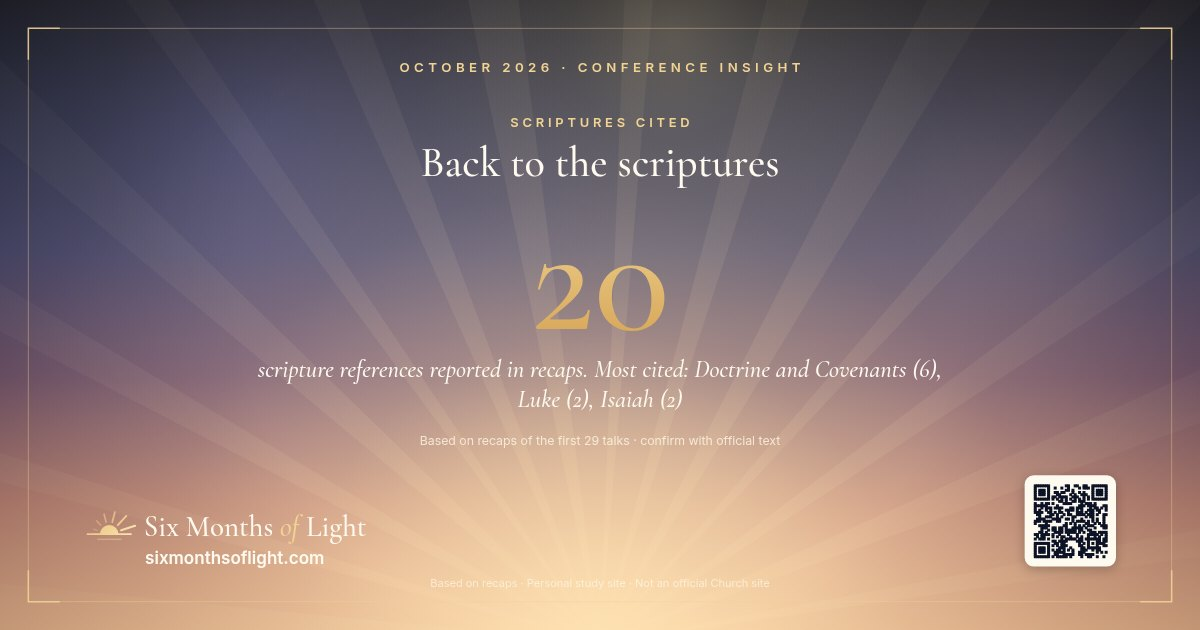
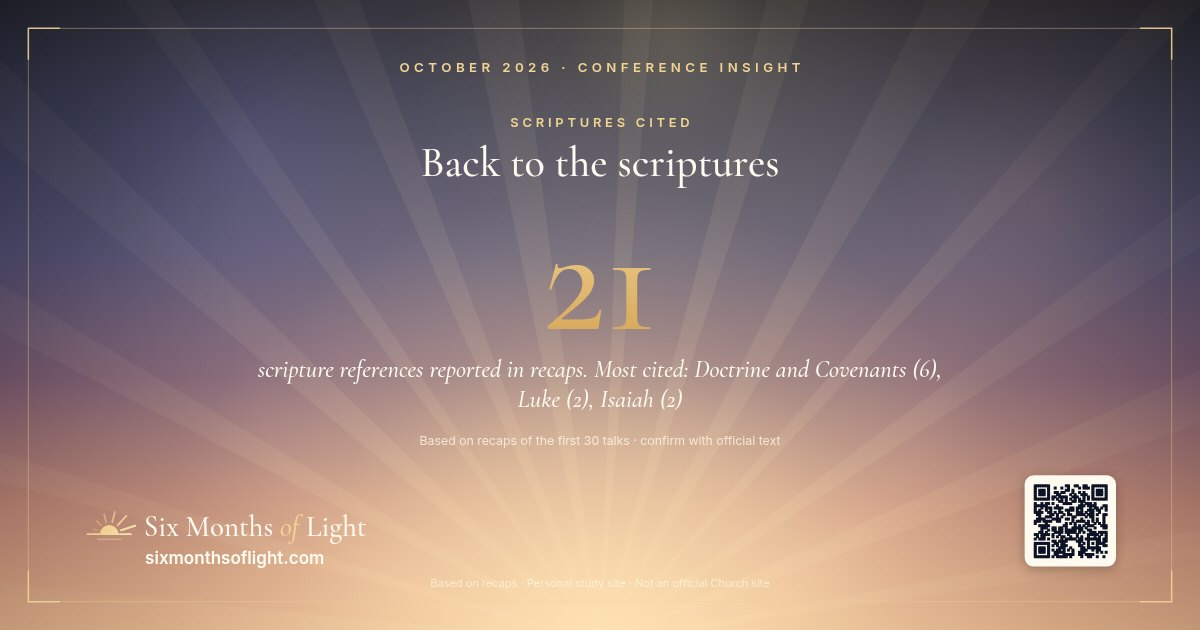
Add Sunday afternoon: Elder Moisés Villanueva "Prove Me Now Herewith"
From Church News recap; session remains pending for more talks.

Changed region(s): [[0.4317, 0.4222, 0.555, 0.5429]]

diff --git a/assets/data.js b/assets/data.js
@@ -49,7 +49,7 @@ window.CONF = {
    "when": "Sun, Oct 4 · 2:00–4:00pm MDT",
    "url": "https://www.churchofjesuschrist.org/study/general-conference/2026/10/sunday-afternoon-session?lang=eng",
    "status": "pending",
-   "note": "In progress. Conducted by Elder Gérald Caussé. Music by The Tabernacle Choir at Temple Square (opening hymn: Let Zion in Her Beauty Rise). First talks added from Church News recaps; more as they post."
+   "note": "In progress. Conducted by Elder Gérald Caussé. Music by The Tabernacle Choir at Temple Square (opening hymn: Let Zion in Her Beauty Rise). Talks added from Church News recaps as they post."
   }
  ],
  "talks": [
@@ -752,6 +752,30 @@ window.CONF = {
    "invitation": "Choose one of her seven helps to focus on; study the 13th article of faith and create your own list of aspirations; put the Lord first.",
    "ponder": "Which one of her seven invitations will I focus on for the next few weeks?",
    "big_idea": "Heavenly Father knows you and is at your side — put Him first, and He will guide your righteous desires.",
+   "video_embed": null,
+   "full_text_permitted": false
+  },
+  {
+   "id": "sun-pm-3-villanueva",
+   "session": "sun-pm",
+   "order": 3,
+   "speaker": "Elder Moisés Villanueva",
+   "calling": "General Authority Seventy",
+   "title": "Prove Me Now Herewith",
+   "recap_url": "https://www.thechurchnews.com/general-conference/2026/10/04/elder-moises-villanueva-october-2026-general-conference-prove-me-now-herewith/",
+   "official_url": null,
+   "summary": "Speaking about the blessings the Lord promises to those who faithfully pay tithing. When his family was baptized into the Church, perhaps the change that required the greatest faith and sacrifice was paying a full tithe, and he is grateful his mother trusted the Lord's promises and lived the law of tithing despite difficult circumstances. Blessings he has received through faithful tithing include steady employment, good health, his home and temporal possessions being preserved, the ability to manage time and resources to get an education, the gift of gratitude, and learning to recognize the influence of the Holy Ghost in important decisions. These temporal and spiritual blessings are evidence that the Lord opens the windows of heaven (Malachi 3:10). God gives commandments because He wants us to receive His blessings; He knows each of us and our needs even before we ask.",
+   "scriptures": [
+    "Malachi 3:10"
+   ],
+   "quotes": [
+    "By living the law of tithing, the Lord indeed opens the windows of heaven and pours out a blessing ‘that there shall not be room enough to receive it’ (Malachi 3:10).",
+    "These blessings, both temporal and spiritual — and many others — are evidence that the Lord has indeed opened the windows of heaven and poured out His promised blessings in abundance.",
+    "I bear my testimony that God is our loving Heavenly Father. He knows each of us and is aware of our needs even before we ask."
+   ],
+   "invitation": "Trust the Lord's promises and live the law of tithing faithfully, then watch for the temporal and spiritual blessings He pours out.",
+   "ponder": "What blessings — temporal or spiritual — have come into my life through paying tithing, and have I recognized them?",
+   "big_idea": "Live the law of tithing and the Lord opens the windows of heaven — blessings both temporal and spiritual.",
    "video_embed": null,
    "full_text_permitted": false
   }

diff --git a/q/sun-pm-3-villanueva-1.html b/q/sun-pm-3-villanueva-1.html
@@ -1,0 +1,14 @@
+<!doctype html>
+<html lang="en"><head><meta charset="utf-8"><meta name="viewport" content="width=device-width,initial-scale=1">
+<title>“By living the law of tithing, the Lord indeed opens the windows of heaven and pours out a blessing ‘that…” — Elder Moisés Villanueva · Six Months of Light</title>
+<meta name="description" content="From “Prove Me Now Herewith” (October 2026 General Conference, as quoted in recaps). Read the recap and make your own quote card.">
+<meta property="og:type" content="article"><meta property="og:site_name" content="Six Months of Light">
+<meta property="og:title" content="“By living the law of tithing, the Lord indeed opens the windows of heaven and pours out a blessing ‘that…” — Elder Moisés Villanueva"><meta property="og:description" content="From “Prove Me Now Herewith” (October 2026 General Conference, as quoted in recaps). Read the recap and make your own quote card.">
+<meta property="og:url" content="https://sixmonthsoflight.com/q/sun-pm-3-villanueva-1.html"><meta property="og:image" content="https://sixmonthsoflight.com/assets/og/q/sun-pm-3-villanueva-1.jpg">
+<meta property="og:image:width" content="1200"><meta property="og:image:height" content="630"><meta property="og:image:alt" content="Quote card: By living the law of tithing, the Lord indeed opens the windows of heaven and pours out a blessing ‘that… — Elder Moisés Villanueva">
+<meta name="twitter:card" content="summary_large_image"><meta name="twitter:title" content="“By living the law of tithing, the Lord indeed opens the windows of heaven and pours out a blessing ‘that…” — Elder Moisés Villanueva"><meta name="twitter:description" content="From “Prove Me Now Herewith” (October 2026 General Conference, as quoted in recaps). Read the recap and make your own quote card."><meta name="twitter:image" content="https://sixmonthsoflight.com/assets/og/q/sun-pm-3-villanueva-1.jpg">
+<meta name="robots" content="noindex,follow"><link rel="icon" href="../assets/logo-mark.svg" type="image/svg+xml">
+<meta http-equiv="refresh" content="0; url=../talks/sun-pm-3-villanueva.html#q1">
+<style>body{font:16px/1.5 system-ui,sans-serif;background:#0d1326;color:#fffaf0;display:grid;place-items:center;min-height:100vh;margin:0;padding:24px;text-align:center}a{color:#f1d394}</style>
+</head><body><main><p>Opening the quote from Elder Moisés Villanueva…</p><p><a href="../talks/sun-pm-3-villanueva.html#q1">Continue to Six Months of Light →</a></p><p style="font-size:13px;opacity:.75">Not an official Church site · Personal study page</p></main>
+<script>location.replace("../talks/sun-pm-3-villanueva.html#q1");</script></body></html>

diff --git a/q/sun-pm-3-villanueva-2.html b/q/sun-pm-3-villanueva-2.html
@@ -1,0 +1,14 @@
+<!doctype html>
+<html lang="en"><head><meta charset="utf-8"><meta name="viewport" content="width=device-width,initial-scale=1">
+<title>“These blessings, both temporal and spiritual — and many others — are evidence that the Lord has indeed…” — Elder Moisés Villanueva · Six Months of Light</title>
+<meta name="description" content="From “Prove Me Now Herewith” (October 2026 General Conference, as quoted in recaps). Read the recap and make your own quote card.">
+<meta property="og:type" content="article"><meta property="og:site_name" content="Six Months of Light">
+<meta property="og:title" content="“These blessings, both temporal and spiritual — and many others — are evidence that the Lord has indeed…” — Elder Moisés Villanueva"><meta property="og:description" content="From “Prove Me Now Herewith” (October 2026 General Conference, as quoted in recaps). Read the recap and make your own quote card.">
+<meta property="og:url" content="https://sixmonthsoflight.com/q/sun-pm-3-villanueva-2.html"><meta property="og:image" content="https://sixmonthsoflight.com/assets/og/q/sun-pm-3-villanueva-2.jpg">
+<meta property="og:image:width" content="1200"><meta property="og:image:height" content="630"><meta property="og:image:alt" content="Quote card: These blessings, both temporal and spiritual — and many others — are evidence that the Lord has indeed… — Elder Moisés Villanueva">
+<meta name="twitter:card" content="summary_large_image"><meta name="twitter:title" content="“These blessings, both temporal and spiritual — and many others — are evidence that the Lord has indeed…” — Elder Moisés Villanueva"><meta name="twitter:description" content="From “Prove Me Now Herewith” (October 2026 General Conference, as quoted in recaps). Read the recap and make your own quote card."><meta name="twitter:image" content="https://sixmonthsoflight.com/assets/og/q/sun-pm-3-villanueva-2.jpg">
+<meta name="robots" content="noindex,follow"><link rel="icon" href="../assets/logo-mark.svg" type="image/svg+xml">
+<meta http-equiv="refresh" content="0; url=../talks/sun-pm-3-villanueva.html#q2">
+<style>body{font:16px/1.5 system-ui,sans-serif;background:#0d1326;color:#fffaf0;display:grid;place-items:center;min-height:100vh;margin:0;padding:24px;text-align:center}a{color:#f1d394}</style>
+</head><body><main><p>Opening the quote from Elder Moisés Villanueva…</p><p><a href="../talks/sun-pm-3-villanueva.html#q2">Continue to Six Months of Light →</a></p><p style="font-size:13px;opacity:.75">Not an official Church site · Personal study page</p></main>
+<script>location.replace("../talks/sun-pm-3-villanueva.html#q2");</script></body></html>

diff --git a/q/sun-pm-3-villanueva-3.html b/q/sun-pm-3-villanueva-3.html
@@ -1,0 +1,14 @@
+<!doctype html>
+<html lang="en"><head><meta charset="utf-8"><meta name="viewport" content="width=device-width,initial-scale=1">
+<title>“I bear my testimony that God is our loving Heavenly Father. He knows each of us and is aware of our…” — Elder Moisés Villanueva · Six Months of Light</title>
+<meta name="description" content="From “Prove Me Now Herewith” (October 2026 General Conference, as quoted in recaps). Read the recap and make your own quote card.">
+<meta property="og:type" content="article"><meta property="og:site_name" content="Six Months of Light">
+<meta property="og:title" content="“I bear my testimony that God is our loving Heavenly Father. He knows each of us and is aware of our…” — Elder Moisés Villanueva"><meta property="og:description" content="From “Prove Me Now Herewith” (October 2026 General Conference, as quoted in recaps). Read the recap and make your own quote card.">
+<meta property="og:url" content="https://sixmonthsoflight.com/q/sun-pm-3-villanueva-3.html"><meta property="og:image" content="https://sixmonthsoflight.com/assets/og/q/sun-pm-3-villanueva-3.jpg">
+<meta property="og:image:width" content="1200"><meta property="og:image:height" content="630"><meta property="og:image:alt" content="Quote card: I bear my testimony that God is our loving Heavenly Father. He knows each of us and is aware of our… — Elder Moisés Villanueva">
+<meta name="twitter:card" content="summary_large_image"><meta name="twitter:title" content="“I bear my testimony that God is our loving Heavenly Father. He knows each of us and is aware of our…” — Elder Moisés Villanueva"><meta name="twitter:description" content="From “Prove Me Now Herewith” (October 2026 General Conference, as quoted in recaps). Read the recap and make your own quote card."><meta name="twitter:image" content="https://sixmonthsoflight.com/assets/og/q/sun-pm-3-villanueva-3.jpg">
+<meta name="robots" content="noindex,follow"><link rel="icon" href="../assets/logo-mark.svg" type="image/svg+xml">
+<meta http-equiv="refresh" content="0; url=../talks/sun-pm-3-villanueva.html#q3">
+<style>body{font:16px/1.5 system-ui,sans-serif;background:#0d1326;color:#fffaf0;display:grid;place-items:center;min-height:100vh;margin:0;padding:24px;text-align:center}a{color:#f1d394}</style>
+</head><body><main><p>Opening the quote from Elder Moisés Villanueva…</p><p><a href="../talks/sun-pm-3-villanueva.html#q3">Continue to Six Months of Light →</a></p><p style="font-size:13px;opacity:.75">Not an official Church site · Personal study page</p></main>
+<script>location.replace("../talks/sun-pm-3-villanueva.html#q3");</script></body></html>

diff --git a/i/christ.html b/i/christ.html
@@ -1,12 +1,12 @@
 <!doctype html>
 <html lang="en"><head><meta charset="utf-8"><meta name="viewport" content="width=device-width,initial-scale=1">
 <title>He was named again and again · October 2026 General Conference · Six Months of Light</title>
-<meta name="description" content="Jesus Christ was named 141 times in recaps of 24 of 29 talks. Based on recaps.">
+<meta name="description" content="Jesus Christ was named 141 times in recaps of 24 of 30 talks. Based on recaps.">
 <meta property="og:type" content="article"><meta property="og:site_name" content="Six Months of Light">
-<meta property="og:title" content="He was named again and again · October 2026 General Conference"><meta property="og:description" content="Jesus Christ was named 141 times in recaps of 24 of 29 talks. Based on recaps.">
+<meta property="og:title" content="He was named again and again · October 2026 General Conference"><meta property="og:description" content="Jesus Christ was named 141 times in recaps of 24 of 30 talks. Based on recaps.">
 <meta property="og:url" content="https://sixmonthsoflight.com/i/christ.html"><meta property="og:image" content="https://sixmonthsoflight.com/assets/og/i/christ.jpg">
 <meta property="og:image:width" content="1200"><meta property="og:image:height" content="630"><meta property="og:image:alt" content="He was named again and again">
-<meta name="twitter:card" content="summary_large_image"><meta name="twitter:title" content="He was named again and again · October 2026 General Conference"><meta name="twitter:description" content="Jesus Christ was named 141 times in recaps of 24 of 29 talks. Based on recaps."><meta name="twitter:image" content="https://sixmonthsoflight.com/assets/og/i/christ.jpg">
+<meta name="twitter:card" content="summary_large_image"><meta name="twitter:title" content="He was named again and again · October 2026 General Conference"><meta name="twitter:description" content="Jesus Christ was named 141 times in recaps of 24 of 30 talks. Based on recaps."><meta name="twitter:image" content="https://sixmonthsoflight.com/assets/og/i/christ.jpg">
 <meta name="robots" content="noindex,follow"><link rel="icon" href="../assets/logo-mark.svg" type="image/svg+xml">
 <meta http-equiv="refresh" content="0; url=../insights.html#christ">
 <style>body{font:16px/1.5 system-ui,sans-serif;background:#0d1326;color:#fffaf0;display:grid;place-items:center;min-height:100vh;margin:0;padding:24px;text-align:center}a{color:#f1d394}</style>

diff --git a/i/scriptures.html b/i/scriptures.html
@@ -1,12 +1,12 @@
 <!doctype html>
 <html lang="en"><head><meta charset="utf-8"><meta name="viewport" content="width=device-width,initial-scale=1">
 <title>Back to the scriptures · October 2026 General Conference · Six Months of Light</title>
-<meta name="description" content="20 scripture references in recaps of the first 29 talks. Based on recaps.">
+<meta name="description" content="21 scripture references in recaps of the first 30 talks. Based on recaps.">
 <meta property="og:type" content="article"><meta property="og:site_name" content="Six Months of Light">
-<meta property="og:title" content="Back to the scriptures · October 2026 General Conference"><meta property="og:description" content="20 scripture references in recaps of the first 29 talks. Based on recaps.">
+<meta property="og:title" content="Back to the scriptures · October 2026 General Conference"><meta property="og:description" content="21 scripture references in recaps of the first 30 talks. Based on recaps.">
 <meta property="og:url" content="https://sixmonthsoflight.com/i/scriptures.html"><meta property="og:image" content="https://sixmonthsoflight.com/assets/og/i/scriptures.jpg">
 <meta property="og:image:width" content="1200"><meta property="og:image:height" content="630"><meta property="og:image:alt" content="Back to the scriptures">
-<meta name="twitter:card" content="summary_large_image"><meta name="twitter:title" content="Back to the scriptures · October 2026 General Conference"><meta name="twitter:description" content="20 scripture references in recaps of the first 29 talks. Based on recaps."><meta name="twitter:image" content="https://sixmonthsoflight.com/assets/og/i/scriptures.jpg">
+<meta name="twitter:card" content="summary_large_image"><meta name="twitter:title" content="Back to the scriptures · October 2026 General Conference"><meta name="twitter:description" content="21 scripture references in recaps of the first 30 talks. Based on recaps."><meta name="twitter:image" content="https://sixmonthsoflight.com/assets/og/i/scriptures.jpg">
 <meta name="robots" content="noindex,follow"><link rel="icon" href="../assets/logo-mark.svg" type="image/svg+xml">
 <meta http-equiv="refresh" content="0; url=../insights.html#scriptures">
 <style>body{font:16px/1.5 system-ui,sans-serif;background:#0d1326;color:#fffaf0;display:grid;place-items:center;min-height:100vh;margin:0;padding:24px;text-align:center}a{color:#f1d394}</style>

diff --git a/i/who-spoke.html b/i/who-spoke.html
@@ -1,12 +1,12 @@
 <!doctype html>
 <html lang="en"><head><meta charset="utf-8"><meta name="viewport" content="width=device-width,initial-scale=1">
-<title>29 talks so far · October 2026 General Conference · Six Months of Light</title>
+<title>30 talks so far · October 2026 General Conference · Six Months of Light</title>
 <meta name="description" content="Who spoke at General Conference so far. Based on recaps.">
 <meta property="og:type" content="article"><meta property="og:site_name" content="Six Months of Light">
-<meta property="og:title" content="29 talks so far · October 2026 General Conference"><meta property="og:description" content="Who spoke at General Conference so far. Based on recaps.">
+<meta property="og:title" content="30 talks so far · October 2026 General Conference"><meta property="og:description" content="Who spoke at General Conference so far. Based on recaps.">
 <meta property="og:url" content="https://sixmonthsoflight.com/i/who-spoke.html"><meta property="og:image" content="https://sixmonthsoflight.com/assets/og/i/who-spoke.jpg">
-<meta property="og:image:width" content="1200"><meta property="og:image:height" content="630"><meta property="og:image:alt" content="29 talks so far">
-<meta name="twitter:card" content="summary_large_image"><meta name="twitter:title" content="29 talks so far · October 2026 General Conference"><meta name="twitter:description" content="Who spoke at General Conference so far. Based on recaps."><meta name="twitter:image" content="https://sixmonthsoflight.com/assets/og/i/who-spoke.jpg">
+<meta property="og:image:width" content="1200"><meta property="og:image:height" content="630"><meta property="og:image:alt" content="30 talks so far">
+<meta name="twitter:card" content="summary_large_image"><meta name="twitter:title" content="30 talks so far · October 2026 General Conference"><meta name="twitter:description" content="Who spoke at General Conference so far. Based on recaps."><meta name="twitter:image" content="https://sixmonthsoflight.com/assets/og/i/who-spoke.jpg">
 <meta name="robots" content="noindex,follow"><link rel="icon" href="../assets/logo-mark.svg" type="image/svg+xml">
 <meta http-equiv="refresh" content="0; url=../insights.html#who-spoke">
 <style>body{font:16px/1.5 system-ui,sans-serif;background:#0d1326;color:#fffaf0;display:grid;place-items:center;min-height:100vh;margin:0;padding:24px;text-align:center}a{color:#f1d394}</style>

diff --git a/talks/sun-pm-3-villanueva.html b/talks/sun-pm-3-villanueva.html
@@ -1,0 +1,34 @@
+<!doctype html>
+<html lang="en">
+<head>
+<meta charset="utf-8">
+<base href="../">
+<meta name="viewport" content="width=device-width,initial-scale=1">
+<title>Prove Me Now Herewith — Elder Moisés Villanueva · Six Months of Light</title>
+<meta name="description" content="Live the law of tithing and the Lord opens the windows of heaven — blessings both temporal and spiritual. Six Months of Light: summary, scriptures, quote cards &amp; ponder questions. Not an official Church site.">
+<link rel="canonical" href="https://sixmonthsoflight.com/talks/sun-pm-3-villanueva.html">
+<meta property="og:type" content="article">
+<meta property="og:site_name" content="Six Months of Light">
+<meta property="og:title" content="Prove Me Now Herewith — Elder Moisés Villanueva">
+<meta property="og:description" content="Live the law of tithing and the Lord opens the windows of heaven — blessings both temporal and spiritual. Six Months of Light: summary, scriptures, quote cards &amp; ponder questions. Not an official Church site.">
+<meta property="og:url" content="https://sixmonthsoflight.com/talks/sun-pm-3-villanueva.html">
+<meta property="og:image" content="https://sixmonthsoflight.com/assets/og/sun-pm-3-villanueva.jpg">
+<meta property="og:image:width" content="1200"><meta property="og:image:height" content="630">
+<meta property="og:image:alt" content="Prove Me Now Herewith by Elder Moisés Villanueva">
+<meta name="twitter:card" content="summary_large_image">
+<meta name="theme-color" content="#0d1326">
+<link rel="icon" href="assets/logo-mark.svg" type="image/svg+xml">
+<link rel="preload" href="assets/fonts/CormorantGaramond.woff2" as="font" type="font/woff2" crossorigin>
+<link rel="stylesheet" href="assets/styles.css">
+</head>
+<body>
+<main class="wrap" id="main"></main>
+<script>window.TALK_ID = "sun-pm-3-villanueva";</script>
+<script src="assets/config.js"></script>
+<script src="assets/api.js"></script>
+<script src="assets/data.js"></script>
+<script src="assets/common.js"></script>
+<script src="assets/pages/share.js"></script>
+<script src="assets/pages/talk.js"></script>
+</body>
+</html>

diff --git a/tools/talks_source.py b/tools/talks_source.py
@@ -19,7 +19,7 @@ sessions = [
   {"id": "sun-am", "color": "sky", "name": "Sunday Morning Session", "when": "Sun, Oct 4 · 10:00am–noon MDT", "url": SUN_AM, "status": "complete",
    "note": "Conducted by President D. Todd Christofferson. Music by The Tabernacle Choir at Temple Square (opening hymn: How Firm a Foundation; includes Music & the Spoken Word). Closed by President Dallin H. Oaks."},
   {"id": "sun-pm", "color": "violet", "name": "Sunday Afternoon Session", "when": "Sun, Oct 4 · 2:00–4:00pm MDT", "url": SUN_PM, "status": "pending",
-   "note": "In progress. Conducted by Elder Gérald Caussé. Music by The Tabernacle Choir at Temple Square (opening hymn: Let Zion in Her Beauty Rise). First talks added from Church News recaps; more as they post."},
+   "note": "In progress. Conducted by Elder Gérald Caussé. Music by The Tabernacle Choir at Temple Square (opening hymn: Let Zion in Her Beauty Rise). Talks added from Church News recaps as they post."},
 ]
 
 def t(id, session, order, speaker, calling, title, recap, summary, scriptures, quotes, invitation, ponder, official_url=None):
@@ -290,6 +290,15 @@ talks = [
     "Always put Him first and remain faithful to the covenants you made at your baptism. Angels can minister to you. The Father, Jesus Christ and the Holy Ghost are at your side."],
    "Choose one of her seven helps to focus on; study the 13th article of faith and create your own list of aspirations; put the Lord first.",
    "Which one of her seven invitations will I focus on for the next few weeks?"),
+ t("sun-pm-3-villanueva", "sun-pm", 3, "Elder Moisés Villanueva", "General Authority Seventy", "Prove Me Now Herewith",
+   "https://www.thechurchnews.com/general-conference/2026/10/04/elder-moises-villanueva-october-2026-general-conference-prove-me-now-herewith/",
+   "Speaking about the blessings the Lord promises to those who faithfully pay tithing. When his family was baptized into the Church, perhaps the change that required the greatest faith and sacrifice was paying a full tithe, and he is grateful his mother trusted the Lord's promises and lived the law of tithing despite difficult circumstances. Blessings he has received through faithful tithing include steady employment, good health, his home and temporal possessions being preserved, the ability to manage time and resources to get an education, the gift of gratitude, and learning to recognize the influence of the Holy Ghost in important decisions. These temporal and spiritual blessings are evidence that the Lord opens the windows of heaven (Malachi 3:10). God gives commandments because He wants us to receive His blessings; He knows each of us and our needs even before we ask.",
+   ["Malachi 3:10"],
+   ["By living the law of tithing, the Lord indeed opens the windows of heaven and pours out a blessing ‘that there shall not be room enough to receive it’ (Malachi 3:10).",
+    "These blessings, both temporal and spiritual — and many others — are evidence that the Lord has indeed opened the windows of heaven and poured out His promised blessings in abundance.",
+    "I bear my testimony that God is our loving Heavenly Father. He knows each of us and is aware of our needs even before we ask."],
+   "Trust the Lord's promises and live the law of tithing faithfully, then watch for the temporal and spiritual blessings He pours out.",
+   "What blessings — temporal or spiritual — have come into my life through paying tithing, and have I recognized them?"),
 ]
 
 # 60-second recap "big idea" — a one-line condensation of the doc's summary (NOT a quote).
@@ -323,6 +332,7 @@ BIG_IDEAS = {
  "sun-am-9-oaks": "The gospel of Jesus Christ is for all — overcome by getting closer to the Savior, and help others come unto Him.",
  "sun-pm-1-uchtdorf": "Jesus Christ unites His covenant people — the closer we come to Him, the closer we come to each other.",
  "sun-pm-2-spannaus": "Heavenly Father knows you and is at your side — put Him first, and He will guide your righteous desires.",
+ "sun-pm-3-villanueva": "Live the law of tithing and the Lord opens the windows of heaven — blessings both temporal and spiritual.",
 }
 for _t in talks:
     _t["big_idea"] = BIG_IDEAS[_t["id"]]
